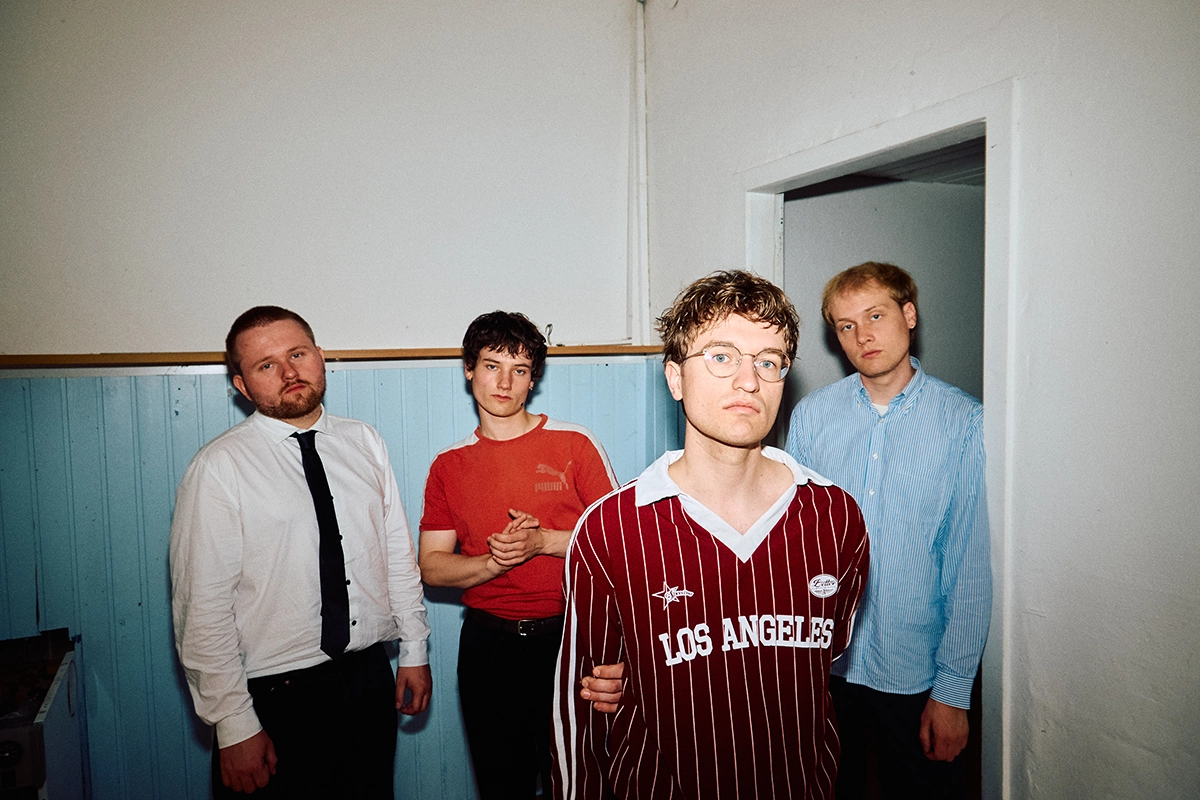
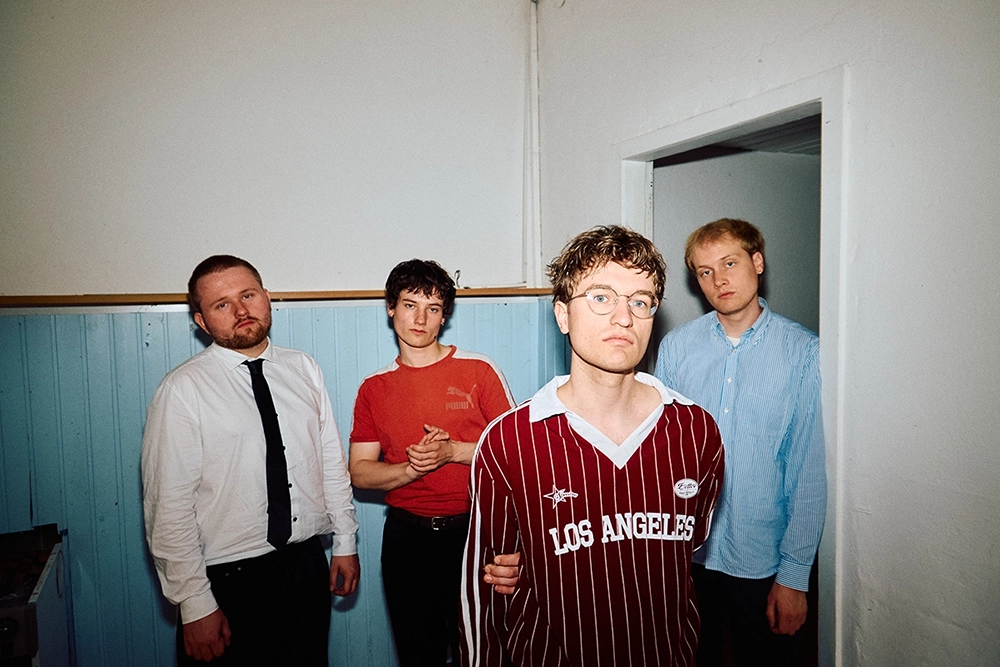
fix: optimized images

diff --git a/src/components/Hero.tsx b/src/components/Hero.tsx
@@ -7,8 +7,8 @@ const Hero = () => {
         <section className="flex items-center justify-center pt-30 text-center">
             <div className="mx-auto max-w-275 px-6">
                 <div className="mb-8">
-                    <h1 className="mb-4 font-['Antique_Olive_Compact',sans-serif] text-[clamp(3.5rem,12vw,9rem)] leading-[0.85] font-black tracking-[-0.04em]">
-                        véloclub
+                    <h1 className="mb-4 font-['Antique_Olive_Compact',sans-serif] text-[clamp(3.5rem,12vw,9rem)] leading-[0.85] font-black tracking-[-0.04em] lowercase">
+                        Véloclub
                     </h1>
                     <p className="mb-12 font-['Inter',sans-serif] text-xl font-normal tracking-[2px] text-orange-600 uppercase">
                         Alternative / NNDW &bull; Leipzig
@@ -17,17 +17,12 @@ const Hero = () => {
 
                 {/* Hero Image */}
                 <div className="mx-auto w-full max-w-225 overflow-hidden">
-                    {heroImg.image ? (
-                        <img
-                            src={heroImg.image}
-                            alt="Véloclub Band"
-                            className="pointer-events-none block h-auto w-full max-w-full object-cover"
-                        />
-                    ) : (
-                        <div className="flex h-[50vh] w-full items-center justify-center bg-orange-600 font-bold text-white opacity-80">
-                            <span>BAND IMAGE PLACEHOLDER (1920x1080)</span>
-                        </div>
-                    )}
+                    <img
+                        src={heroImg.image}
+                        alt="Véloclub Band"
+                        fetchPriority={'high'}
+                        className="pointer-events-none block h-auto w-full max-w-full object-cover"
+                    />
 
                     {/* Credit */}
                     {heroImg.credit && (
